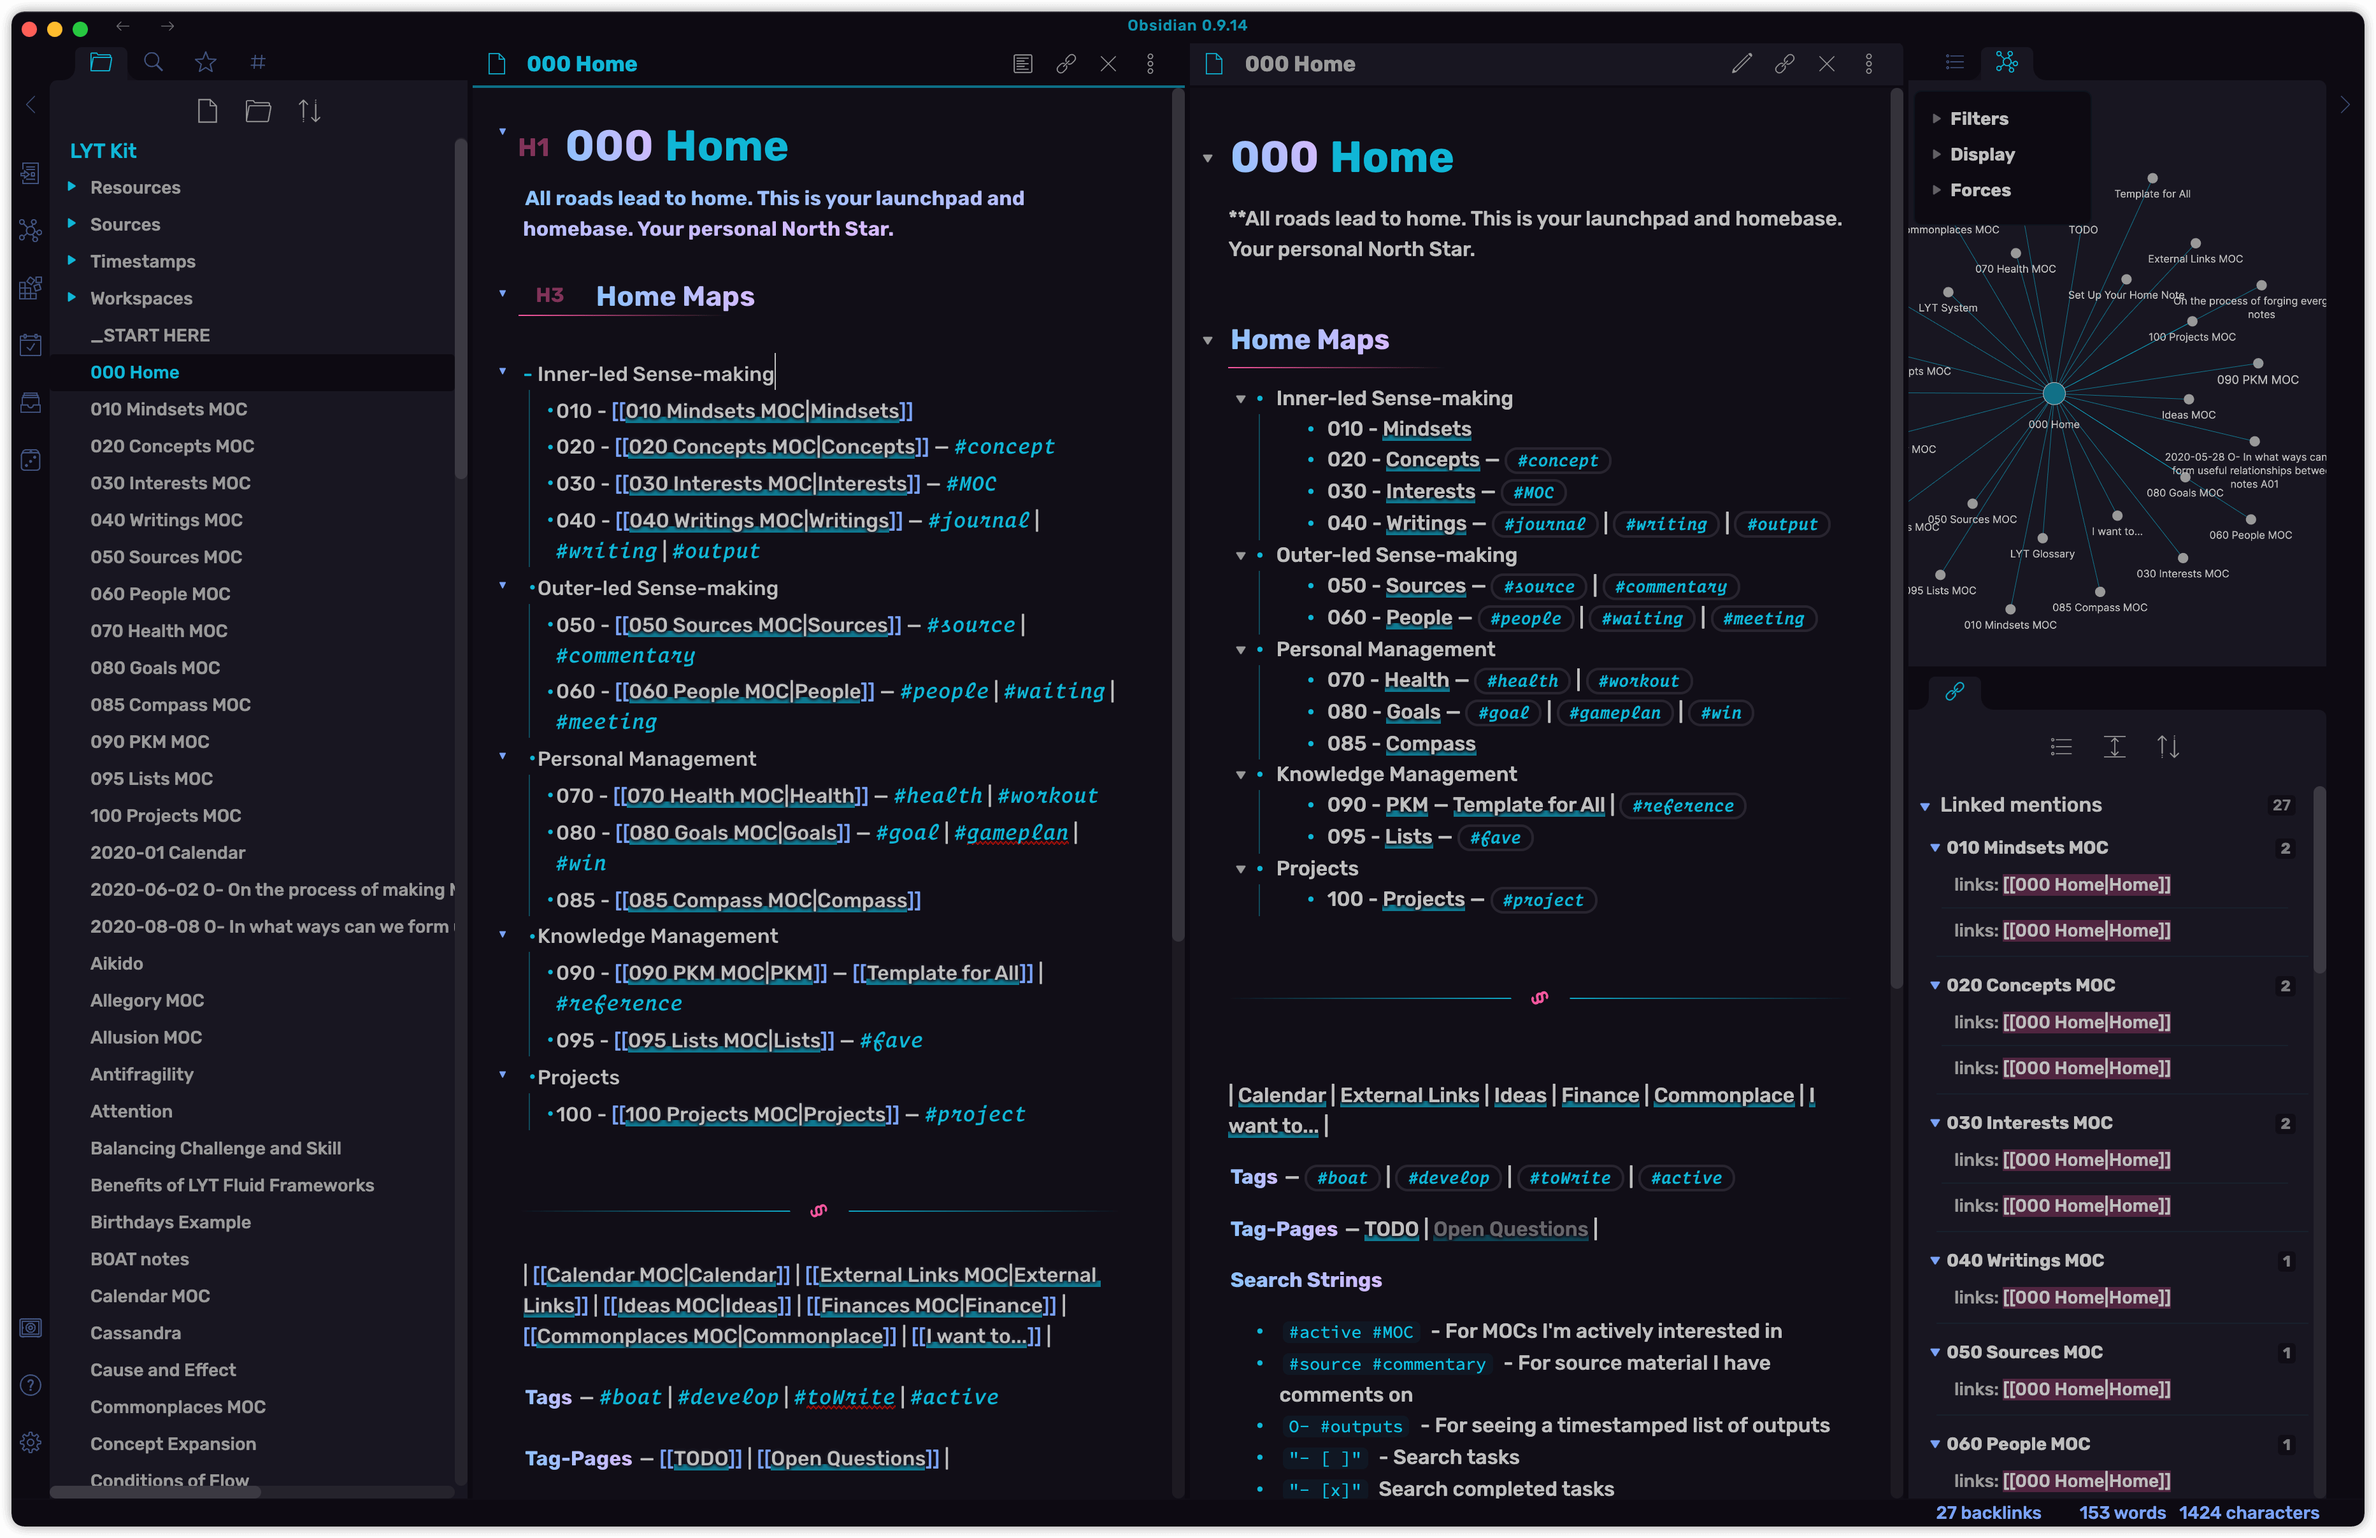
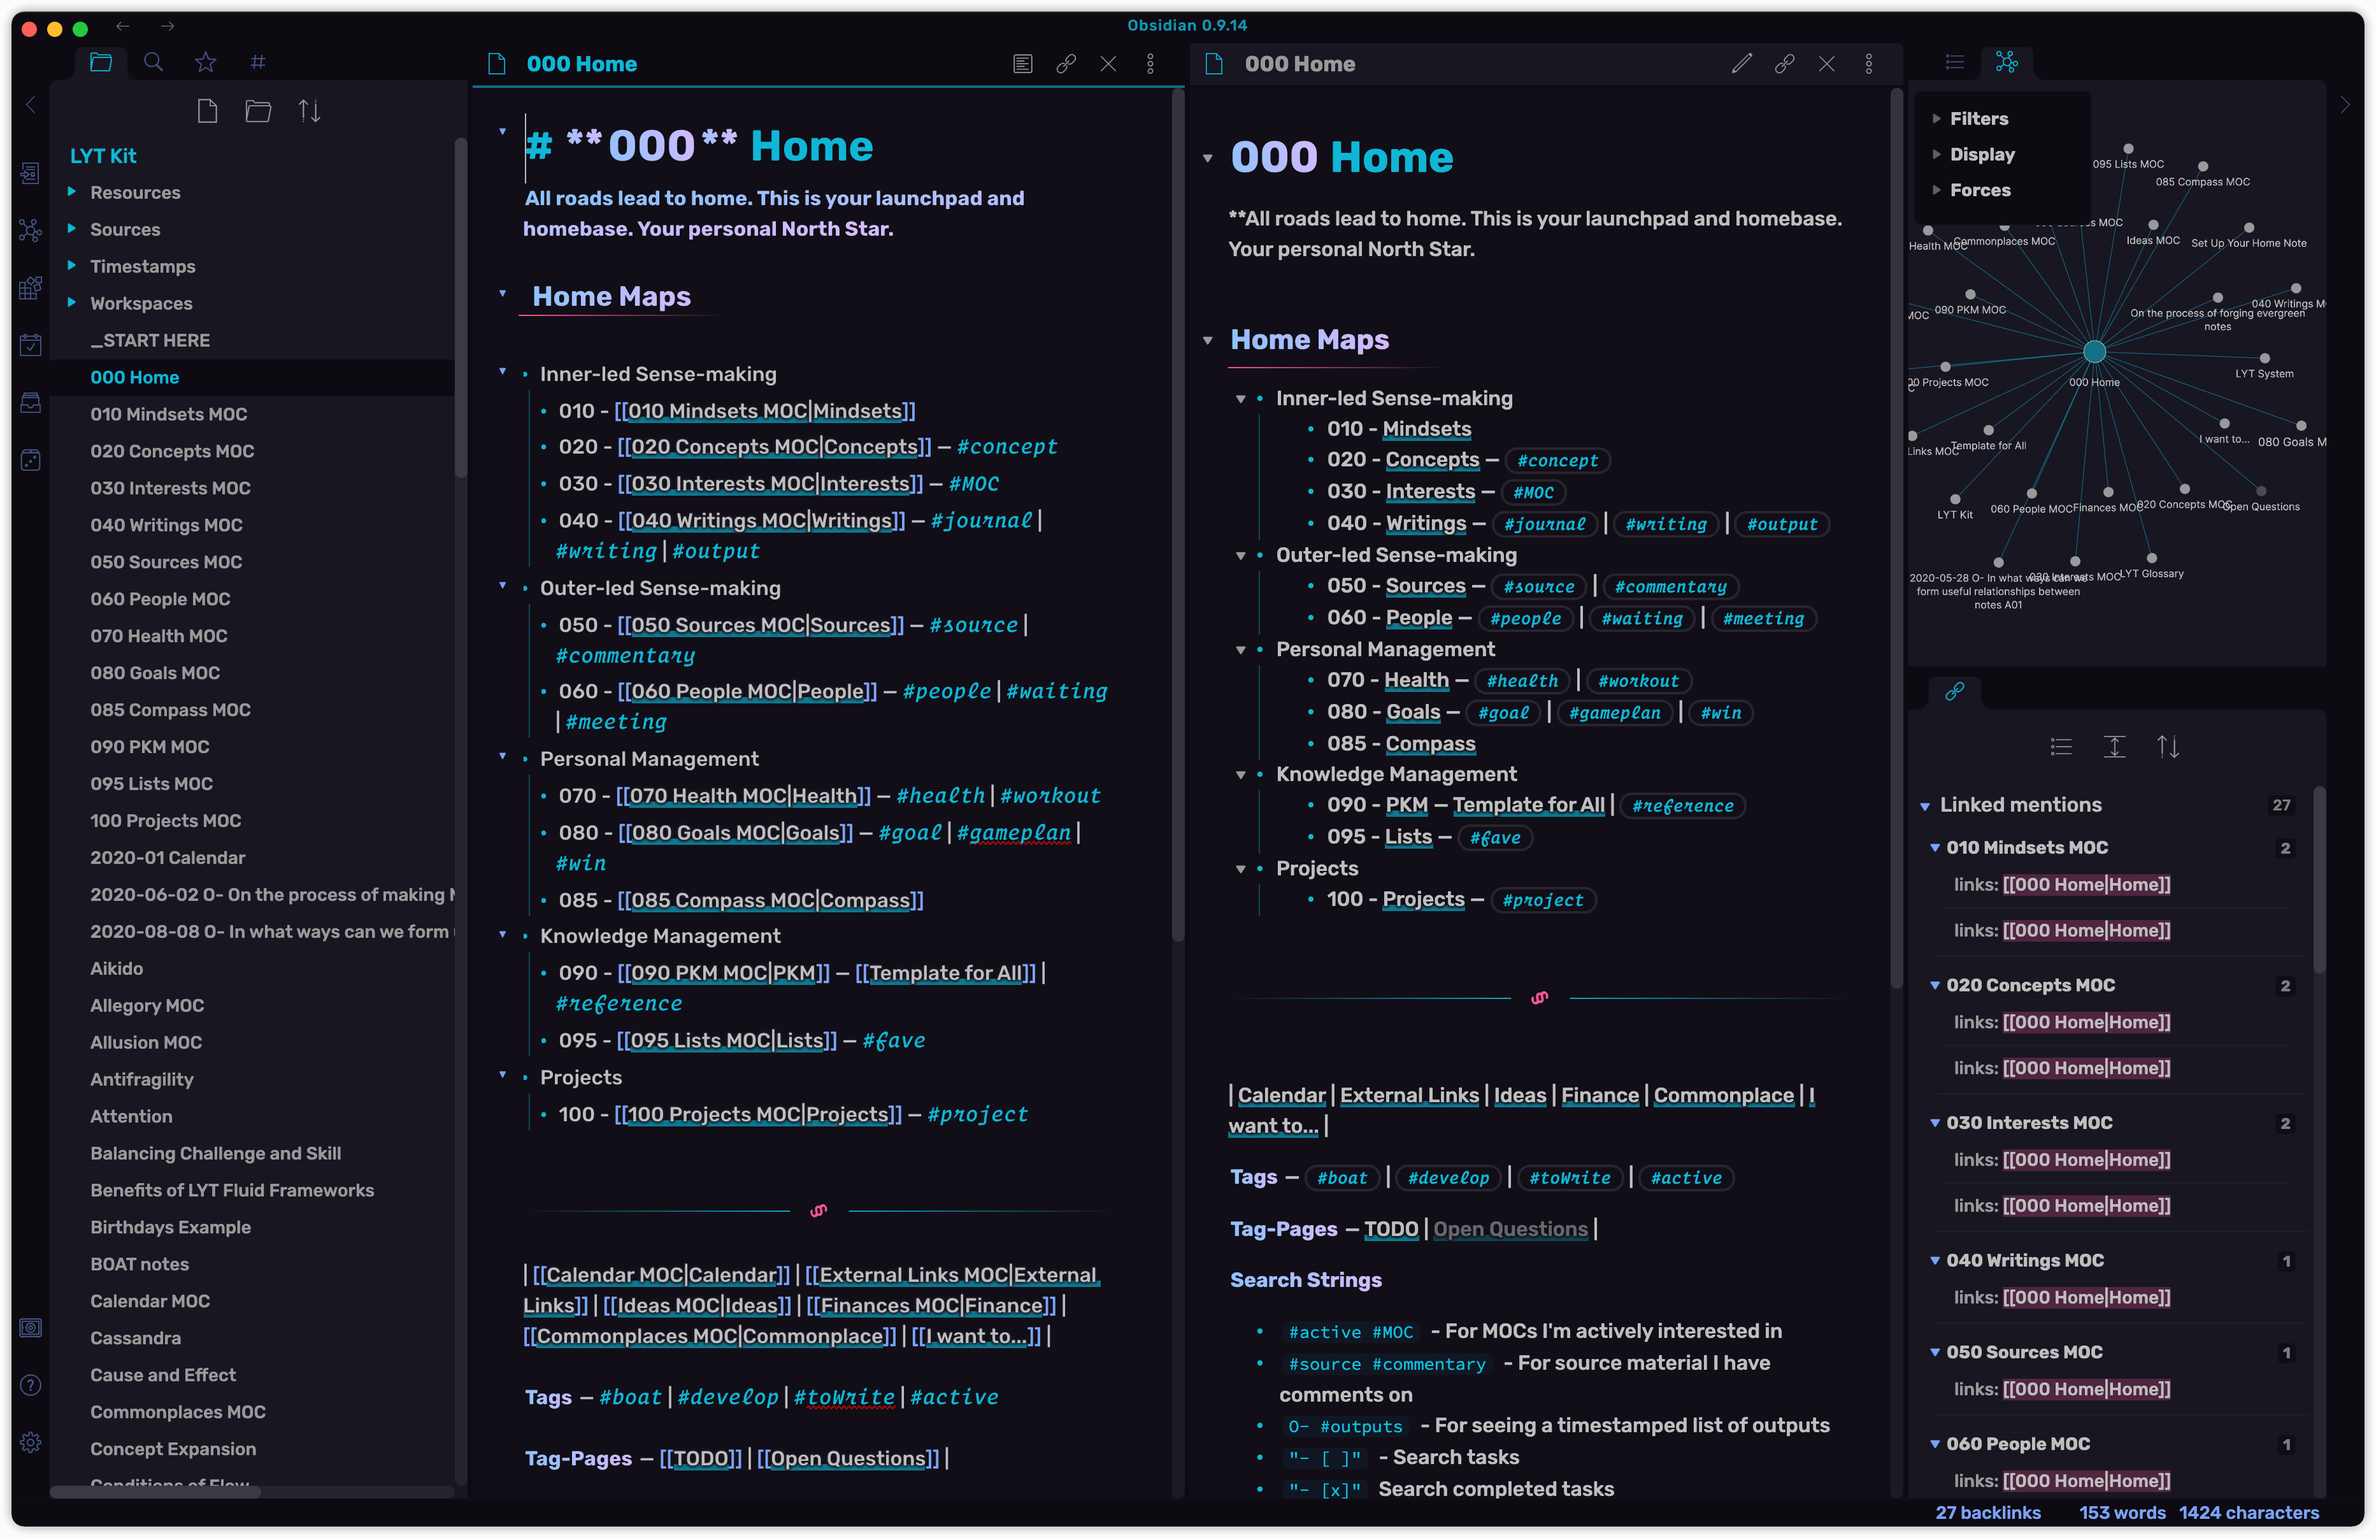
Shipping version 1.1.1

diff --git a/obsidian.css b/obsidian.css
@@ -5,7 +5,7 @@
 ** ██║   ██║██╔══██╗╚════██║██║██║  ██║██║██╔══██║██║╚██╗██║██║   ██║   ██╔══╝
 ** ╚██████╔╝██████╔╝███████║██║██████╔╝██║██║  ██║██║ ╚████║██║   ██║   ███████╗
 **  ╚═════╝ ╚═════╝ ╚══════╝╚═╝╚═════╝ ╚═╝╚═╝  ╚═╝╚═╝  ╚═══╝╚═╝   ╚═╝   ╚══════╝
-**  —— Version 1.1.0
+**  —— Version 1.1.1
 **  —— Made with 💎 by TriDiamond
 ** Changes Log @see: https://github.com/TriDiamond/Obsidian-Obsidianite/blob/main/CHANGELOG.md
 ** --------------------------------------------------------------- */
@@ -301,59 +301,7 @@ h6 {
 
 /** Header - !!clutter free mode!! **/
 div:not(.CodeMirror-activeline) > .CodeMirror-line span.cm-formatting-header {
-  opacity: 0;
-  position: relative;
-}
-
-div:not(.CodeMirror-activeline) > .CodeMirror-line span.cm-header::before {
-  position: absolute;
-  content: '';
-  left: 0;
-  top: 50%;
-  height: 100%;
-  color: var(--text-sub-accent);
-  opacity: 0.5;
-}
-
-div:not(.CodeMirror-activeline) > .CodeMirror-line span.cm-header-1::before {
-  content: 'H1';
-  transform: translateY(-30%);
-  font-size: 20px;
-}
-
-div:not(.CodeMirror-activeline) > .CodeMirror-line span.cm-header-2::before {
-  content: 'H2';
-  transform: translateY(-45%);
-  font-size: 20px;
-  left: 10px;
-}
-
-div:not(.CodeMirror-activeline) > .CodeMirror-line span.cm-header-3::before {
-  content: 'H3';
-  transform: translateY(-40%);
-  font-size: 16px;
-  left: 14px;
-}
-
-div:not(.CodeMirror-activeline) > .CodeMirror-line span.cm-header-4::before {
-  content: 'H4';
-  transform: translateY(-45%);
-  font-size: 14px;
-  left: 16px;
-}
-
-div:not(.CodeMirror-activeline) > .CodeMirror-line span.cm-header-5::before {
-  content: 'H5';
-  transform: translateY(-45%);
-  font-size: 14px;
-  left: 20px;
-}
-
-div:not(.CodeMirror-activeline) > .CodeMirror-line span.cm-header-6::before {
-  content: 'H6';
-  transform: translateY(-45%);
-  font-size: 14px;
-  left: 25px;
+  display: none !important;
 }
 
 .HyperMD-header-2::after,
@@ -385,16 +333,25 @@ div:not(.CodeMirror-activeline) > .CodeMirror-line span.cm-header-6::before {
 
 .markdown-preview-section h3,
 .cm-header-3 {
+  font-size: 22px;
   color: var(--text-title-h2);
 }
 
 .markdown-preview-section h4,
 .cm-header-4 {
+  font-size: 18px;
   color: var(--text-title-h4);
 }
 
 .markdown-preview-section h5,
 .cm-header-5 {
+  font-size: 18px;
+  color: var(--text-title-h5);
+}
+
+.markdown-preview-section h6,
+.cm-header-6 {
+  font-size: 18px;
   color: var(--text-title-h5);
 }
 
@@ -526,43 +483,37 @@ strong::selection {
 .cm-em,
 em {
   color: #bb9af7;
-  font-family: OperatorMonoSSmLig-Book !important;
+  font-family: OperatorMonoSSmLig-Book, Rubik !important;
 }
 
 /**-------------------**
 | LISTING STYLES (ul, li, ol)
 **--------------------**/
 
-.cm-s-obsidian pre.HyperMD-list-line {
+/** Listing clutter free mode **/
+.cm-s-obsidian .CodeMirror-line span.cm-list-2 {
   position: relative;
+  z-index: 10;
 }
 
-div:not(.CodeMirror-activeline) > .CodeMirror-line span.cm-formatting-list {
-  display: inline-block;
-  opacity: 0;
+div:not(.CodeMirror-activeline) > .CodeMirror-line span.cm-formatting-list-ul {
+  display: inline-flex !important;
+  position: relative;
+  text-indent: -150%;
+  white-space: nowrap;
+  overflow: hidden;
+  min-width: 13.5px;
+  z-index: -10;
 }
 
-div:not(.CodeMirror-activeline) > .HyperMD-list-line::after {
-  content: '•';
+div:not(.CodeMirror-activeline) > .CodeMirror-line span.cm-formatting-list-ul::after {
   position: absolute;
+  content: '•';
   color: var(--text-accent);
-}
-
-div:not(.CodeMirror-activeline) > .HyperMD-list-line.HyperMD-list-line-1::after {
-  top: 0.25em;
-  left: 1.2em;
-}
-div:not(.CodeMirror-activeline) > .HyperMD-list-line.HyperMD-list-line-2::after {
-  top: 0.25em;
-  left: 3em;
-}
-div:not(.CodeMirror-activeline) > .HyperMD-list-line.HyperMD-list-line-3::after {
-  top: 0.3em;
-  left: 4.9em;
-}
-div:not(.CodeMirror-activeline) > .HyperMD-list-line.HyperMD-list-line-4::after {
-  top: 0.3em;
-  left: 6.6em;
+  top: 0;
+  left: 0.48em;
+  font-weight: bold;
+  text-shadow: 0 0 0.5em var(--accent-2);
 }
 
 .cm-s-obsidian span.cm-formatting-list {

diff --git a/CHANGELOG.md b/CHANGELOG.md
@@ -1,5 +1,16 @@
 # CHANGELOG
 
+## Version 1.1.1 (Nov 17, 2020)
+
+### Improvements ⚡
+
+- Taking the suggesting from the community, removing the clutter free editor mode's headings `h1, h2, h3`, now just hide the `#` completely instead.
+
+### Fixes 🔧
+
+- Fixed the clutter free editor mode for list are not displaying correctly if spaces are added in front or at the back of the `+` sign.
+- Fixed the clutter free editor mode destroyed the display of numbers for ordered lists.
+
 ## Version 1.1.0 (Nov 17, 2020)
 
 ### New Diamonds 💎

diff --git a/README.md b/README.md
@@ -27,7 +27,7 @@ Obsidian.md custom theme, it's dark and simple but yet still stays sparkles!
 **  ╚═════╝ ╚═════╝ ╚══════╝╚═╝╚═════╝ ╚═╝╚═╝  ╚═╝╚═╝  ╚═══╝╚═╝   ╚═╝   ╚══════╝
 **
 **  —— Made with 💎 by TriDiamond
-**  version 1.1.0
+**  version 1.1.1
 ** --------------------------------------------------------------- */
 ```
 
